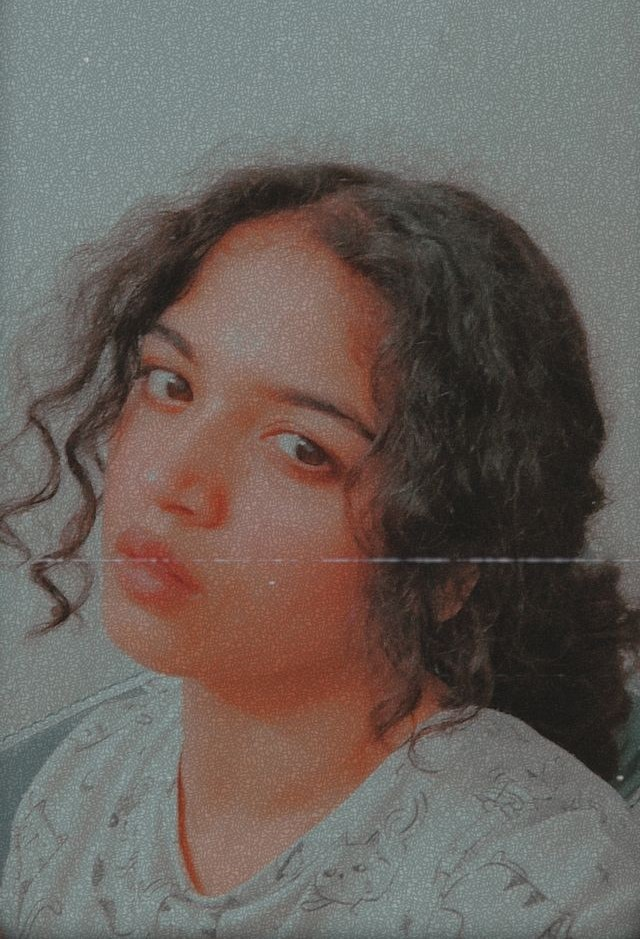
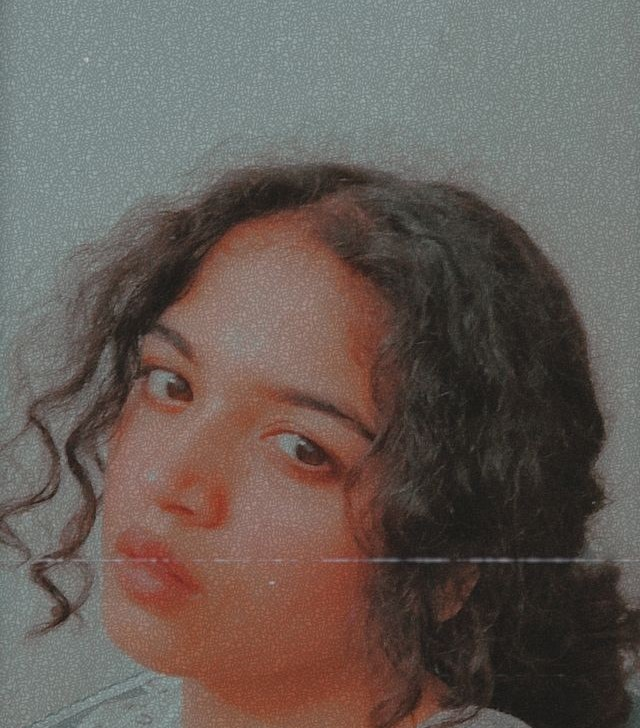
frourth commit

diff --git a/src/components/molecules/Skills/Skills.jsx b/src/components/molecules/Skills/Skills.jsx
@@ -77,17 +77,17 @@ const Skills = () => {
            MORE...
           </div>
           </div>
-          <img  className="relative w-[47rem] h-[90vh] left-[175px]" src="/assets/skill.jpg" alt="" />
+          <img  className="relative w-[47rem] h-[85vh] top-[50px] left-[175px]" src="/assets/skill.jpg" alt="" />
         </div>
         
         </div>
         <marquee direction="up" className=" font-poppins w-[385px] relative h-[600px] flex-[2] left-[250px]">
-          <div className="not-italic font-poppins text-8xl p-2 leading-[144px] text-[#F1D37D]">SKILLS</div>
-          <div className="not-italic font-poppins text-8xl p-2 leading-[121px] text-[#F1D37D] opacity-80">SKILLS</div>
-          <div className="not-italic font-poppins text-8xl p-2 leading-[121px] text-[#F1D37D] opacity-60">SKILLS</div>
-          <div className="not-italic font-poppins text-8xl p-2 leading-[121px] text-[#F1D37D] opacity-40">SKILLS</div>
-          <div className="not-italic font-poppins text-8xl p-2 leading-[121px] text-[#F1D37D] opacity-40">SKILLS</div>
-          <div className="not-italic font-poppins text-8xl p-2 leading-[121px] text-[#F1D37D] opacity-20">SKILLS</div>
+          <div className="not-italic font-[800] font-poppins text-8xl p-2 leading-[144px] text-[#F1D37D]">SKILLS</div>
+          <div className="not-italic font-[800] font-poppins text-8xl p-2 leading-[121px] text-[#F1D37D] opacity-80">SKILLS</div>
+          <div className="not-italic font-[800] font-poppins text-8xl p-2 leading-[121px] text-[#F1D37D] opacity-60">SKILLS</div>
+          <div className="not-italic font-[800] font-poppins text-8xl p-2 leading-[121px] text-[#F1D37D] opacity-40">SKILLS</div>
+          <div className="not-italic font-[800] font-poppins text-8xl p-2 leading-[121px] text-[#F1D37D] opacity-40">SKILLS</div>
+          <div className="not-italic font-[800] font-poppins text-8xl p-2 leading-[121px] text-[#F1D37D] opacity-20">SKILLS</div>
         </marquee>
         
         

diff --git a/src/components/organisms/Navbar/Navbar.jsx b/src/components/organisms/Navbar/Navbar.jsx
@@ -7,29 +7,29 @@ const Navbar = () => {
   return (
     <>
     <div className={style.Container}>
-        <div className="flex">
-        <div className="relative left-[30px] top-5">
+        <div className="flex pt-7 ">
+        <div className="relative left-[30px]">
             <NavButton text="Home" Name="intro"/>
         </div>
-        <div className="relative left-[60px] top-5">
+        <div className="relative left-[60px] ">
             <NavButton text="About" Name="about" />
         </div>
-        <div className="relative left-[90px] top-5">
+        <div className="relative left-[90px] ">
             <NavButton text="Skills" Name="skills" />
         </div>
         
-        <div className="relative font-sora text-white top-7 left-[180px]">
-            <img src="/assets/pnglogo.png" className='relative w-[140px] bottom-3' alt="" />
+        <div className="relative font-sora text-white left-[160px]">
+            <img src="/assets/pnglogo.png" className='relative w-[160px] bottom-3' alt="" />
         </div>
         
-        <div className="relative left-[270px] top-5">
+        <div className="relative left-[260px] ">
             <NavButton text="Projects" Name="projects" />
         </div>
-        <div className="relative left-[300px] top-5">
+        <div className="relative left-[290px] ">
             <NavButton text="Contact" Name="contact" />
         </div>
-        <div className="relative left-[350px] top-5">
-        <button className='w-[162px] h-[39px] not-italic bg-white font-poppins font-extrabold pt-1 pl-2 pr-2 text-l leading-[30px] text-[#000] rounded-[22px] border-[1.5px] border-solid border-[#CC66F0]' >
+        <div className="relative left-[320px] ">
+        <button className='w-[162px] h-[39px] not-italic font-poppins font-extrabold pt-1 pl-2 pr-2 text-l leading-[30px] text-[#fff] rounded-[22px] border-[1.5px] border-solid border-[#CC66F0]' >
         DOWNLOAD CV
         </button>
         </div>

diff --git a/src/components/atoms/TextAbout/TextAbout.jsx b/src/components/atoms/TextAbout/TextAbout.jsx
@@ -24,7 +24,7 @@ const TextAbout = () => {
           delaySpeed={1000}
           />
         </div>
-        <div className="absolute w-[410px] h-[178px] not-italic font-sora text-base leading-5 text-white left-[102px] top-96 z-[3]">
+        <div className="absolute w-[450px] h-[178px] not-italic font-sora text-base leading-5 text-white left-[102px] top-96 z-[3]">
         Hi there! I'm a multi-disciplinary designer with a passion for creating beautiful and functional designs. I've always been fascinated by the intersection of art and technology, and my diverse background in UI/UX design, graphic design, and architecture has given me a unique perspective on how design can shape the world around us. When I'm not designing, you can usually find me exploring new neighborhoods and taking in the sights and sounds of the city. I'm also a huge foodie, and love trying out new restaurants and experimenting with new recipes in my spare time. So whether you're looking for a stunning website, a captivating logo, or an innovative architectural design, I'm here to bring your vision to life!
         </div>
       </div>

diff --git a/src/components/organisms/Home/Home.jsx b/src/components/organisms/Home/Home.jsx
@@ -14,9 +14,9 @@ const Home = () => {
   return (
     
      <div className='absolute w-full h-[500vh]  bg-[#20201e]' >
-      <Fade bottom duration={1500} >
+      <Fade bottom duration={1250} >
       <div className='' ><Intro/></div>
-      <div className='' ><About/></div>
+      {/* <div className='' ><About/></div> */}
       <div className='' ><Skills/></div>
       <div className='' ><Projects/></div>
       </Fade>

diff --git a/src/components/molecules/About/About.jsx b/src/components/molecules/About/About.jsx
@@ -6,7 +6,7 @@ const About = () => {
   return (
     <div name="about" className="w-full h-screen pt-[100px] top-[100vh] " >
       <div><TextAbout/></div>
-      <img className="absolute m-10 w-[884px] left-[556px] z-[3] " src="/assets/wavy.jpg" alt="akansha" />
+      <img className="absolute m-10 w-[884px] left-[600px] z-[3]  " src="/assets/wavy.jpg" alt="akansha" />
     </div>
   )
 }

diff --git a/src/components/atoms/Text1/Text1.jsx b/src/components/atoms/Text1/Text1.jsx
@@ -7,7 +7,7 @@ const Text1 = () => {
     <div className={style.Text1}>
     FROM GRAPHIC DESIGNING TO UI/UX I’M SKILLED IN ALL THINGS WEB DESIGN AND PIZZA MAKING
     </div>
-    <img src="/assets/pizza.png" className='relative top-5 ' alt="" />
+    <img src="/assets/pizza.png" className='relative top-5 w-[64px] h-[67px] ' alt="" />
     </div>
   )
 }

diff --git a/src/components/atoms/Socials/Socials.jsx b/src/components/atoms/Socials/Socials.jsx
@@ -5,7 +5,7 @@ const Socials = () => {
     <>
     <ul className='flex' >
   <li className="email">
-    <a href="mailto:akarshsrivastv@gmail.com">
+    <a href="mailto:akanshasingh95720@gmail.com">
       <img src="/assets/gmail2.png" alt="gmail" className='h-[75px] w-[75px] invert-[100] p-4 hover:text-aqua '  />
     </a>
   </li>

diff --git a/src/components/atoms/NavButton/NavButton.jsx b/src/components/atoms/NavButton/NavButton.jsx
@@ -6,7 +6,7 @@ const NavButton = ({text,Name}) => {
     <div>
         <button className='w-[162px] h-[39px] not-italic font-poppins text-xl leading-[30px] text-[#CC66F0]' >
         <Link to={Name} smooth={true} duration={500}>
-            {text}
+            {text.toUpperCase()}
           </Link>
         </button>
     </div>

diff --git a/src/components/organisms/Navbar/Navbar.module.css b/src/components/organisms/Navbar/Navbar.module.css
@@ -1,7 +1,7 @@
 .Container{
-
+position: "fixed";
 width: 100%;
-height: 80px;
+height: 100px;
 left: 0px;
 top: 0px;
 z-index: 4;
